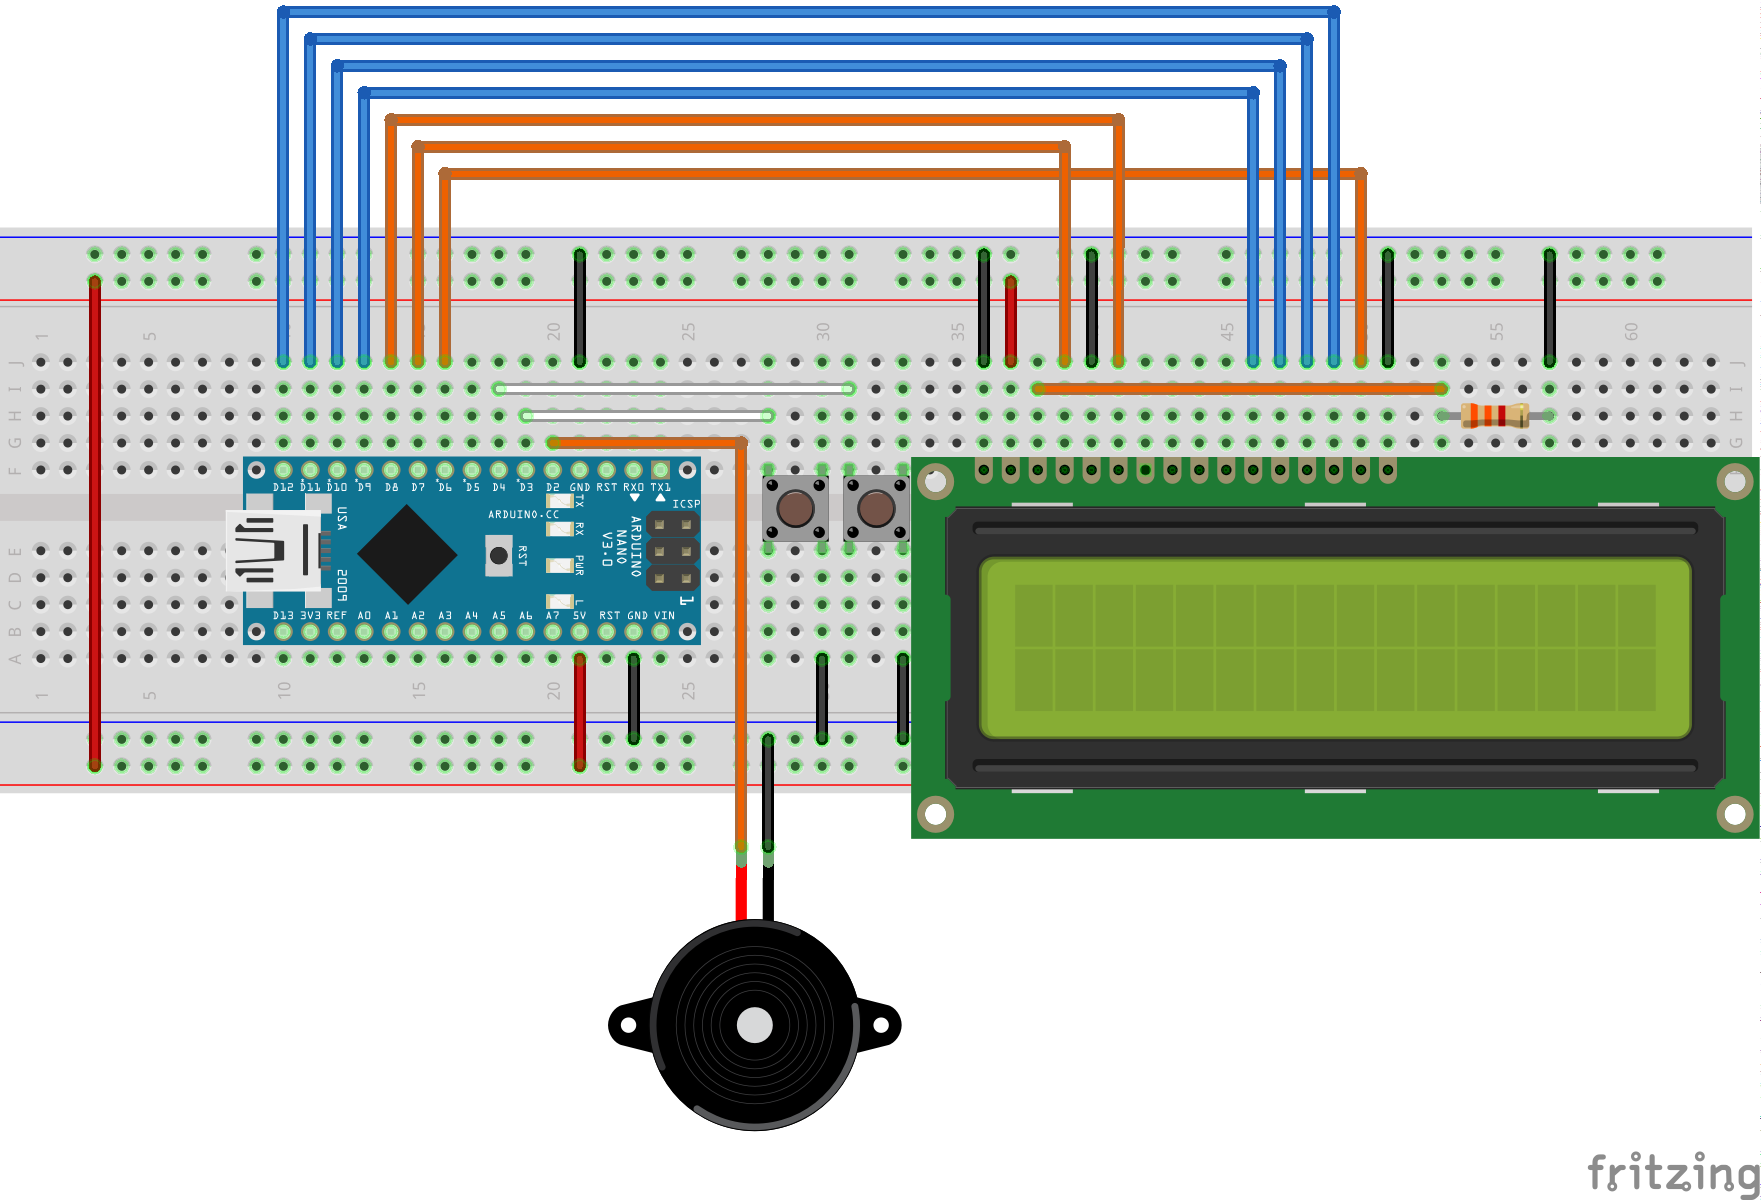
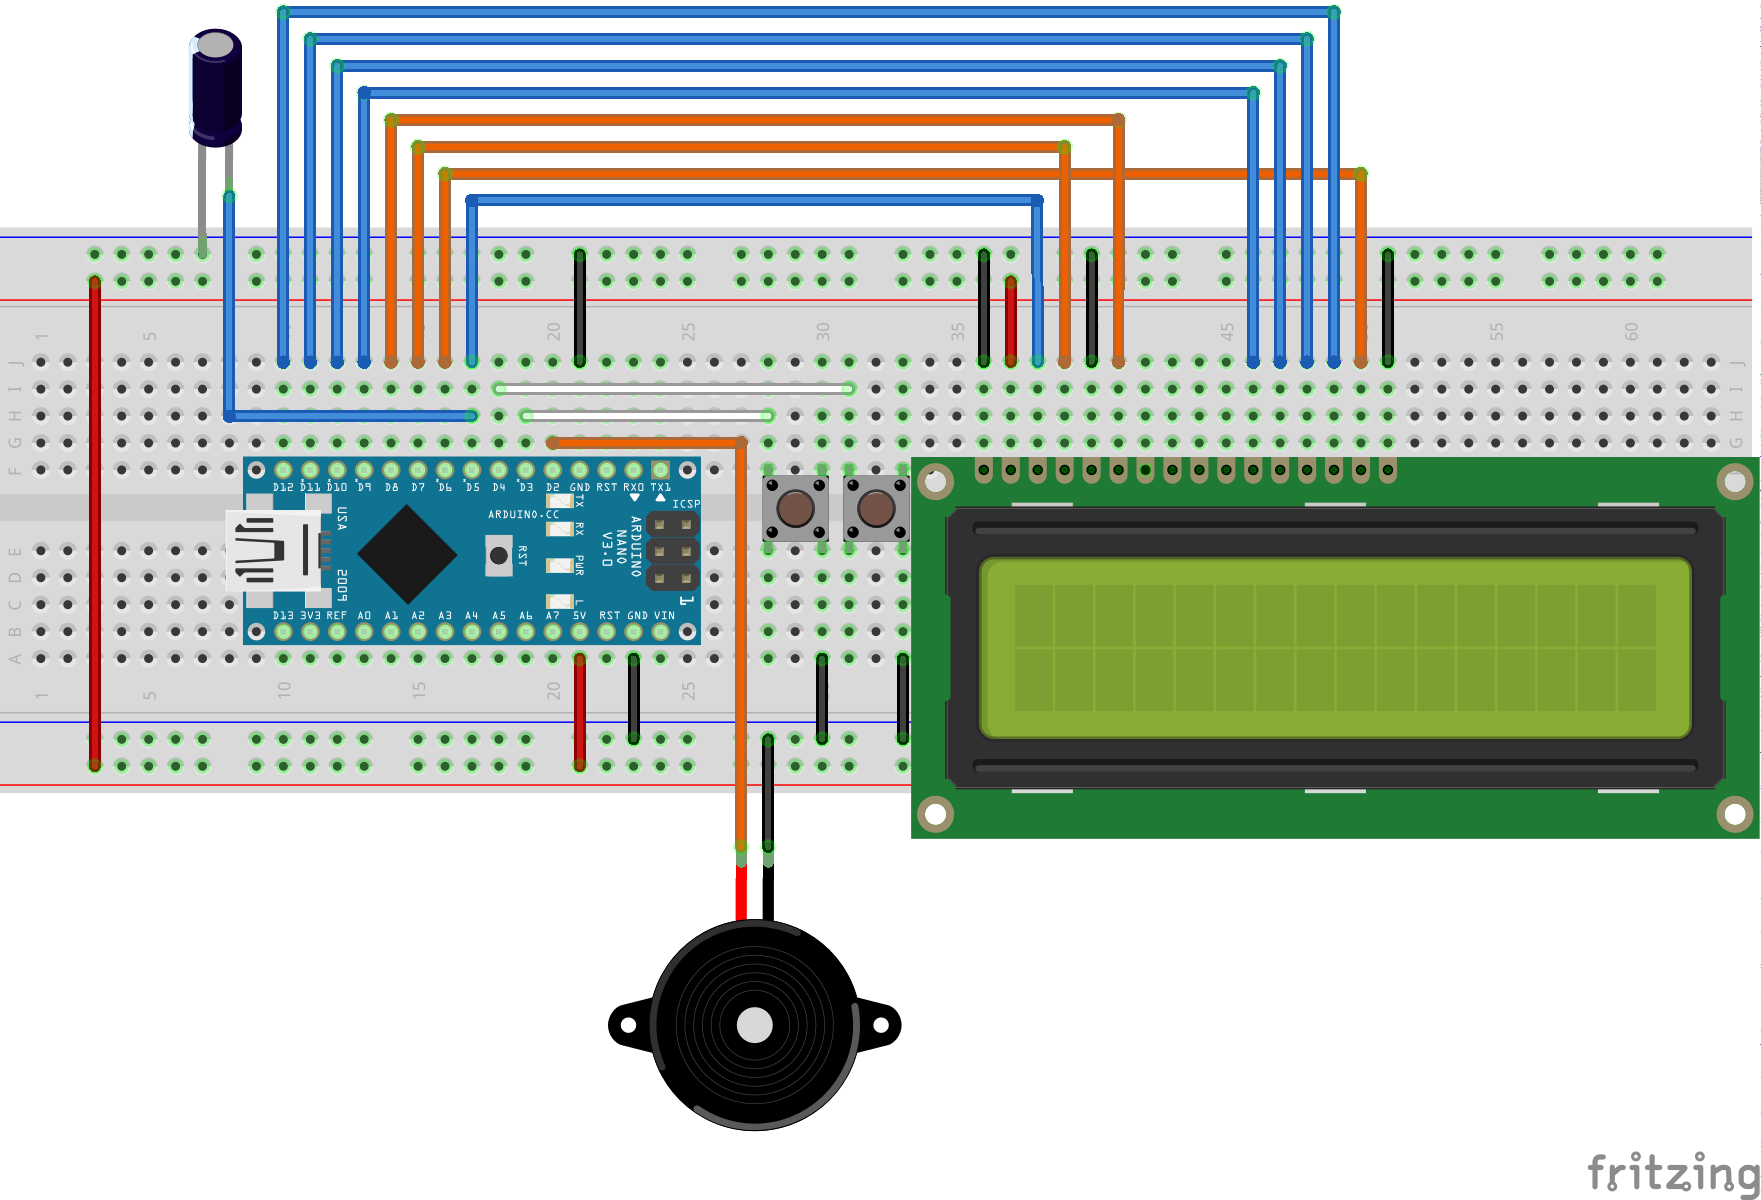
using RC filter instead of resistors for LCD contrast

diff --git a/README.md b/README.md
@@ -70,12 +70,9 @@ The components were connected as depicted below:
   variant using 5 LEDs as "user interface".
 - 10k potentiometer (optional) - for controlling contrast. If you don't want
   that just use some resistor placed between V0 pin of the LCD and ground. For
-  me 3.3k Ohm worked well as you can see
-  [here](/doc/images/nano_sketch_big.png).
-  Alternatively you can uncomment a piece of code in Display::Setup which
-  uses pin D5 as PWM for controlling the contrast. It worked well for my on
-  Arduino, but on Nano the display is flickering, so there is really a need for
-  a simple RC filter.
+  me 3.3k Ohm worked well, however using a capacitor (100uF) as you can see here:
+  [here](/doc/images/nano_sketch_big.png) worked best (forming simple RC
+  filter with D5 as PWM).
 
 - 2 buttons
 - buzzer - although, again, it can be replaced by any device controller by
